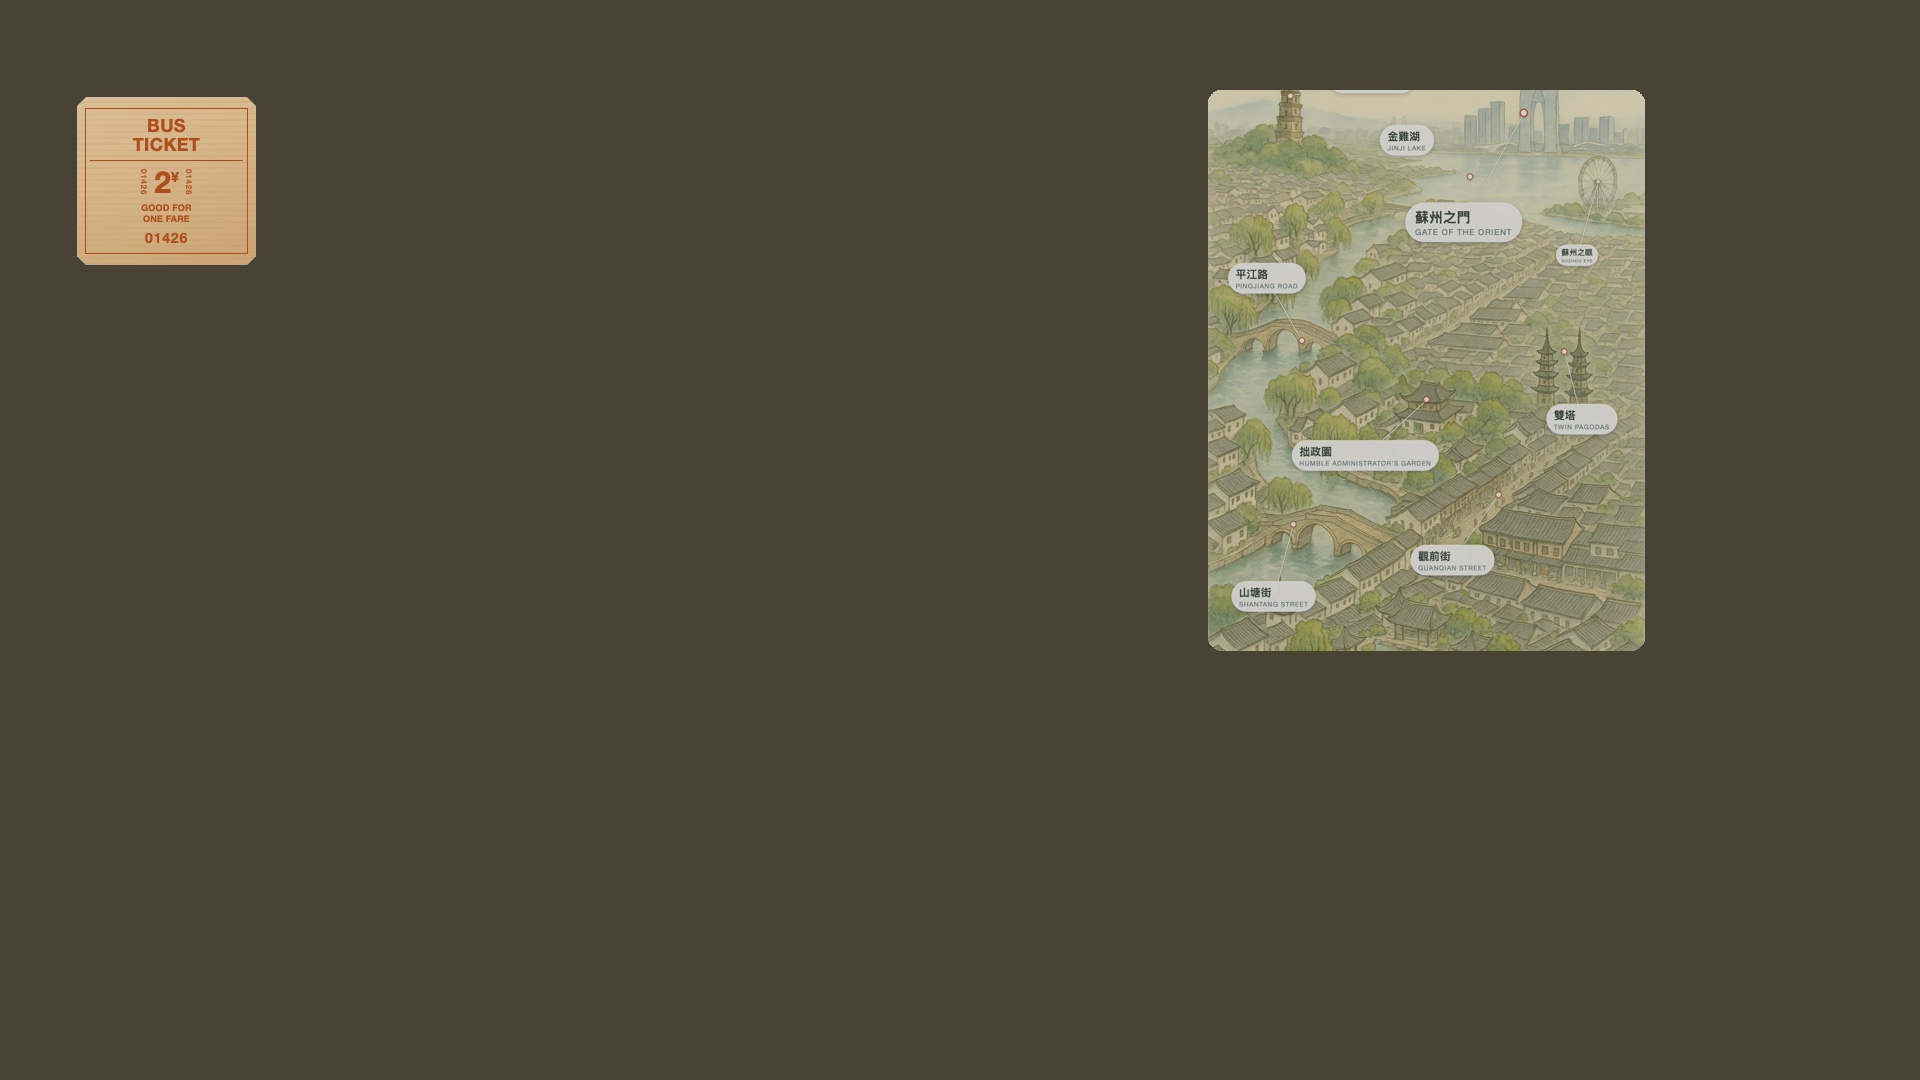
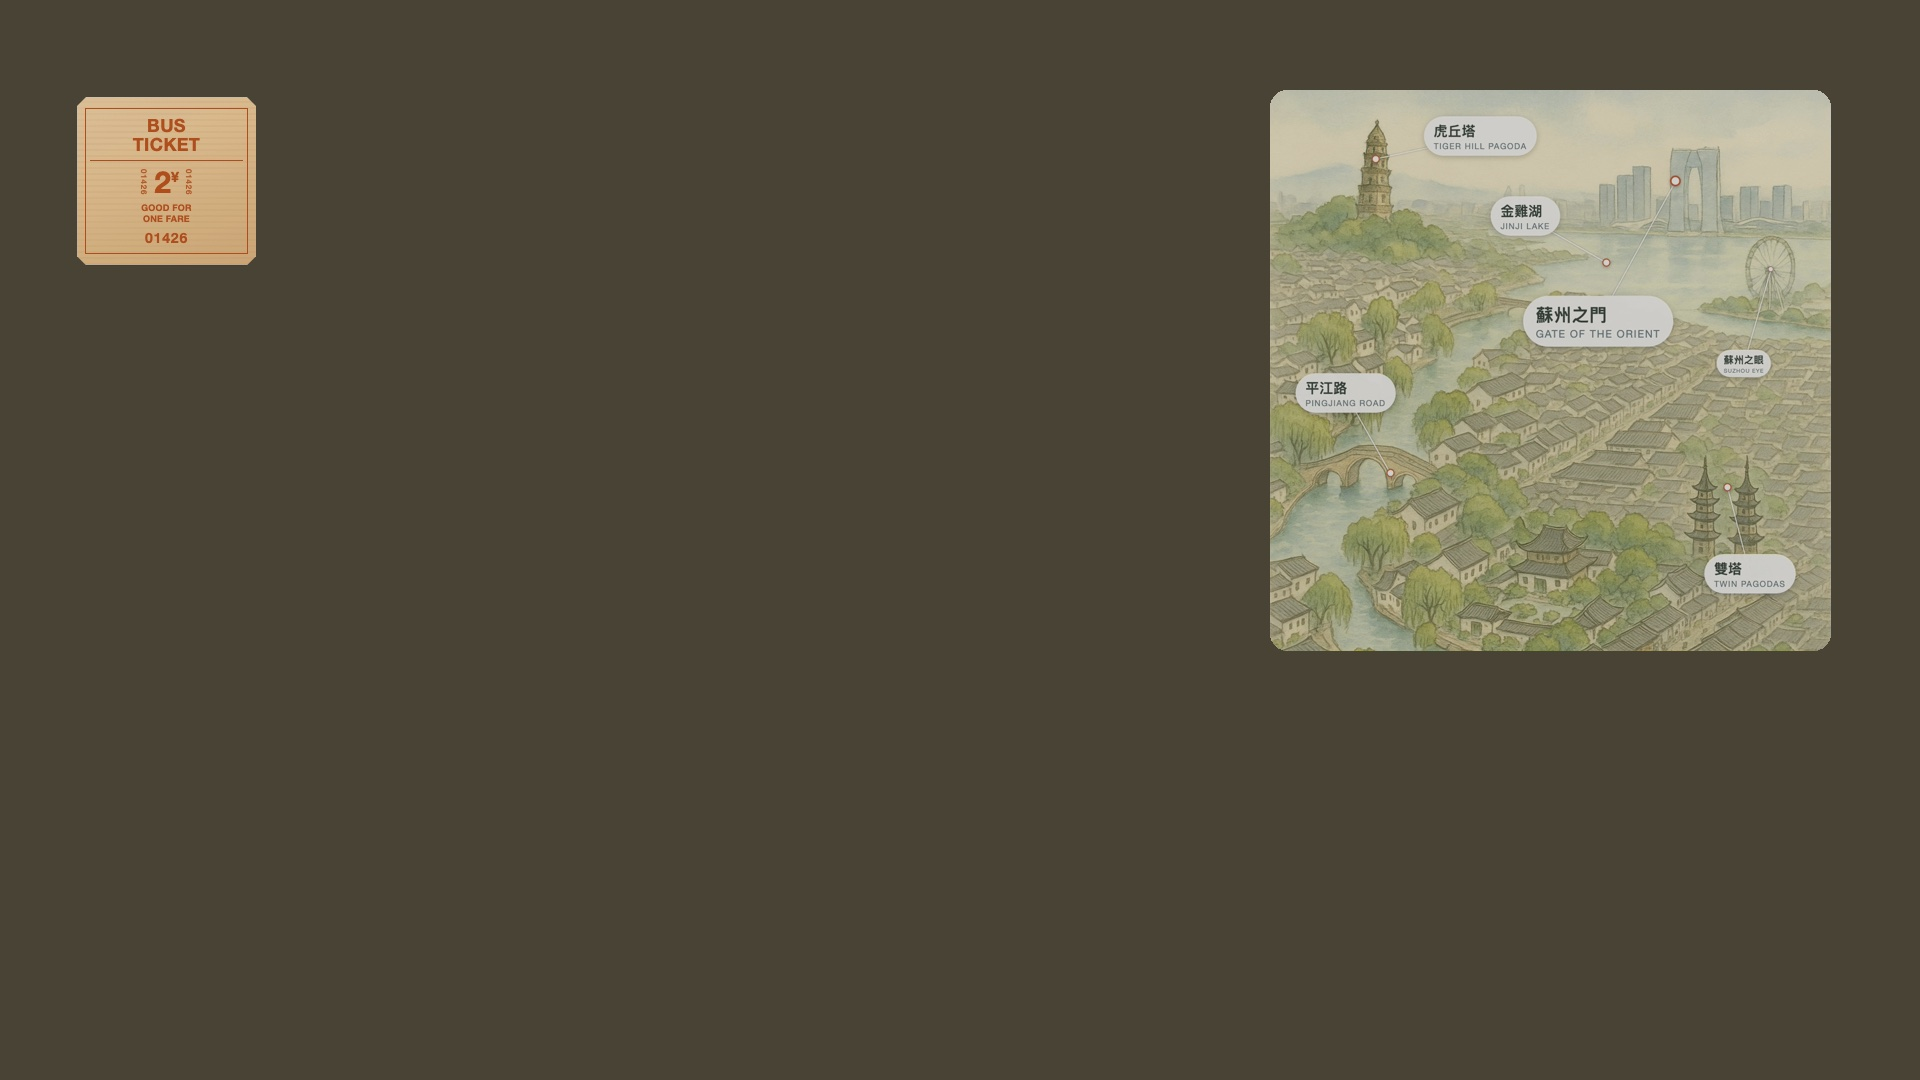
photonb: update notebook (36 notes)

Changed region(s): [[0.625, 0.0611, 0.9688, 0.6111]]

diff --git a/public/photonb/narrative-tag-tool.html b/public/photonb/narrative-tag-tool.html
@@ -81,14 +81,16 @@
   <p class="ratio-note">每一組都給你 <b>9:16 直式</b> 與 <b>16:9 橫式</b> 兩版並排，直接挑。點任一張圖可放大看細節。</p>
   <div style="margin:.2rem 0 1rem;font-size:.82rem;color:var(--muted)">
   📐 <b>版位規則</b>（James 2026-08-23 拍板）：9:16 一律 <b>票在上方靠左、地圖在下方靠右</b>；16:9 維持 <b>票左、地圖右</b>。地圖<b>透明度 75%</b>。<br>
+  ⬛ <b>地圖一律正方形 1:1</b>——因為有 16:9／9:16 兩種輸出，方形放哪邊都塞得下，不用為每個比例各做一版。<br>
+  ✂ AI 立體地形圖的<b>咖啡色桌面已去掉</b>（紙張以外透明），疊在畫面上不會多一塊桌子。<br>
   💡 小貼士：75% 是在<b>暗底</b>畫面上調出來的。疊到<b>亮底</b>（機場大廳、白天外景）時地圖會偏灰，覺得糊就跟 Robert 說一聲把該段拉到 90%——一段一段調不影響其他段。</div>
   <div class="tier">
       <h3>②-A 機票 <span class="band">✈ 洲際／長程</span></h3>
       <div class="pair">
         <figure><img class="zoom" src="narrative-assets/tier_A_9x16.jpg" alt="②-A 機票 9:16">
-          <figcaption>📱 9:16 直式　票上左・地圖下右</figcaption></figure>
+          <figcaption>📱 9:16 直式　票上左・地圖下右（方形）</figcaption></figure>
         <figure><img class="zoom" src="narrative-assets/tier_A_16x9.jpg" alt="②-A 機票 16:9">
-          <figcaption>🖥 16:9 橫式　票左・地圖右</figcaption></figure>
+          <figcaption>🖥 16:9 橫式　票左・地圖右（方形）</figcaption></figure>
       </div>
       <p><b>🎫 票</b>（程式出）：Passage 白色極簡：班次＋起訖站＋當前地點＋時間<br><b>🗺 地圖</b>：程式版真實世界地圖（Natural Earth 國界，航跡照 GPS 走）</p>
       <div class="pr nop">程式畫的，沒有生圖提示詞</div>
@@ -97,9 +99,9 @@
       <h3>②-B 遊覽車票 <span class="band">🚌 跨區／一天多段</span></h3>
       <div class="pair">
         <figure><img class="zoom" src="narrative-assets/tier_B_9x16.jpg" alt="②-B 遊覽車票 9:16">
-          <figcaption>📱 9:16 直式　票上左・地圖下右</figcaption></figure>
+          <figcaption>📱 9:16 直式　票上左・地圖下右（方形）</figcaption></figure>
         <figure><img class="zoom" src="narrative-assets/tier_B_16x9.jpg" alt="②-B 遊覽車票 16:9">
-          <figcaption>🖥 16:9 橫式　票左・地圖右</figcaption></figure>
+          <figcaption>🖥 16:9 橫式　票左・地圖右（方形）</figcaption></figure>
       </div>
       <p><b>🎫 票</b>（程式出）：復古米黃票根：左票根 Day／段次、線稿圖示、襯線大寫起訖＋朱紅箭頭、撕票口真的挖穿<br><b>🗺 地圖</b>：AI 復古手繪<b>區域</b>地圖（山林湖泊等級）</p>
       <div class="pr"><a href="./prompt-library.html#PR-002">🎨 這張地圖的生圖提示詞 → PR-002</a></div>
@@ -108,9 +110,9 @@
       <h3>②-C 高鐵票 <span class="band">🚄 跨都市</span></h3>
       <div class="pair">
         <figure><img class="zoom" src="narrative-assets/tier_C_9x16.jpg" alt="②-C 高鐵票 9:16">
-          <figcaption>📱 9:16 直式　票上左・地圖下右</figcaption></figure>
+          <figcaption>📱 9:16 直式　票上左・地圖下右（方形）</figcaption></figure>
         <figure><img class="zoom" src="narrative-assets/tier_C_16x9.jpg" alt="②-C 高鐵票 16:9">
-          <figcaption>🖥 16:9 橫式　票左・地圖右</figcaption></figure>
+          <figcaption>🖥 16:9 橫式　票左・地圖右（方形）</figcaption></figure>
       </div>
       <p><b>🎫 票</b>（程式出）：科技感 HUD：深色玻璃面板、青色發光細邊、四角準星、等寬字數據列、行程進度軌<br><b>🗺 地圖</b>：AI <b>立體浮空地形圖</b>：木桌上的浮雕模型，中間一台高鐵跑過去</p>
       <div class="pr"><a href="./prompt-library.html#PR-010">🎨 這張地圖的生圖提示詞 → PR-010</a></div>
@@ -119,9 +121,9 @@
       <h3>②-D 市區捷運巴士 <span class="band">🚏 同一都市內</span></h3>
       <div class="pair">
         <figure><img class="zoom" src="narrative-assets/tier_D_9x16.jpg" alt="②-D 市區捷運巴士 9:16">
-          <figcaption>📱 9:16 直式　票上左・地圖下右</figcaption></figure>
+          <figcaption>📱 9:16 直式　票上左・地圖下右（方形）</figcaption></figure>
         <figure><img class="zoom" src="narrative-assets/tier_D_16x9.jpg" alt="②-D 市區捷運巴士 16:9">
-          <figcaption>🖥 16:9 橫式　票左・地圖右</figcaption></figure>
+          <figcaption>🖥 16:9 橫式　票左・地圖右（方形）</figcaption></figure>
       </div>
       <p><b>🎫 票</b>（程式出）：牛皮巴士票（切角／粗黑體／票號直排）或剪票根（超大路線號＋剪票孔＋剪訖章）<br><b>🗺 地圖</b>：AI <b>水彩鳥瞰全景</b>：整座城市的空拍插畫，地標照真實建築畫，<b>標籤是程式疊的所以字不會錯</b></p>
       <div class="pr"><a href="./prompt-library.html#PR-014">🎨 這張地圖的生圖提示詞 → PR-014</a></div>
@@ -130,9 +132,9 @@
       <h3>②-E 船票 <span class="band">⛴ 渡輪／遊船</span></h3>
       <div class="pair">
         <figure><img class="zoom" src="narrative-assets/tier_E_9x16.jpg" alt="②-E 船票 9:16">
-          <figcaption>📱 9:16 直式　票上左・地圖下右</figcaption></figure>
+          <figcaption>📱 9:16 直式　票上左・地圖下右（方形）</figcaption></figure>
         <figure><img class="zoom" src="narrative-assets/tier_E_16x9.jpg" alt="②-E 船票 16:9">
-          <figcaption>🖥 16:9 橫式　票左・地圖右</figcaption></figure>
+          <figcaption>🖥 16:9 橫式　票左・地圖右（方形）</figcaption></figure>
       </div>
       <p><b>🎫 票</b>（程式出）：黑白高對比禮券感：左直排標籤、花體大標、日期方塊、右票根船身線稿＋條碼<br><b>🗺 地圖</b>：AI 古海圖：羅盤玫瑰、方位射線、朱紅虛線航線、錨點碼頭</p>
       <div class="pr"><a href="./prompt-library.html#PR-009">🎨 這張地圖的生圖提示詞 → PR-009</a></div>
@@ -141,9 +143,9 @@
       <h3>②-F 復古蝕刻車票 <span class="band">🎟 任何交通工具</span></h3>
       <div class="pair">
         <figure><img class="zoom" src="narrative-assets/tier_F_9x16.jpg" alt="②-F 復古蝕刻車票 9:16">
-          <figcaption>📱 9:16 直式　票上左・地圖下右</figcaption></figure>
+          <figcaption>📱 9:16 直式　票上左・地圖下右（方形）</figcaption></figure>
         <figure><img class="zoom" src="narrative-assets/tier_F_16x9.jpg" alt="②-F 復古蝕刻車票 16:9">
-          <figcaption>🖥 16:9 橫式　票左・地圖右</figcaption></figure>
+          <figcaption>🖥 16:9 橫式　票左・地圖右（方形）</figcaption></figure>
       </div>
       <p><b>🎫 票</b>（程式出）：維多利亞古董票：雙線外框、<b>月份＋日期格把出發日圈起來</b>、右上圓形紅印<br><b>🗺 地圖</b>：地圖任選（示範搭 PR-002 手繪區域圖）</p>
       <div class="pr"><a href="./prompt-library.html#PR-002">🎨 這張地圖的生圖提示詞 → PR-002</a></div>
